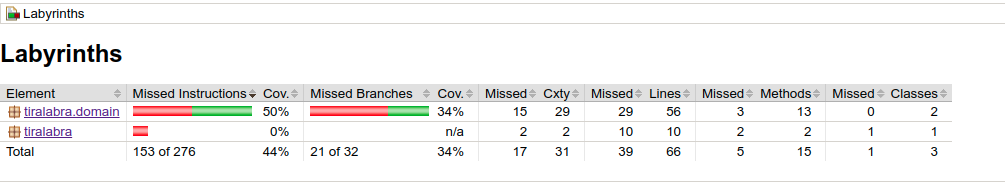
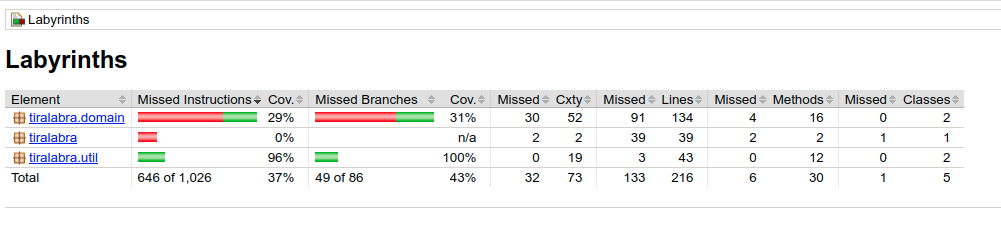
Add testaus List luokalle, dokumentaatiota, checkstyle parannuksia

diff --git a/Labyrinths/src/test/java/tiralabra/util/ListTest.java b/Labyrinths/src/test/java/tiralabra/util/ListTest.java
@@ -1,0 +1,154 @@
+/*
+ * To change this license header, choose License Headers in Project Properties.
+ * To change this template file, choose Tools | Templates
+ * and open the template in the editor.
+ */
+
+package tiralabra.util;
+
+import static org.junit.Assert.*;
+import org.junit.Test;
+
+import tiralabra.domain.Cell;
+
+/**
+ * Tests for the class List
+ * 
+ * @author lbsarast
+ */
+public class ListTest {
+   
+    private List testList = new List<>();    
+    
+    @Test
+    public void testAdd() {
+        int entryInt = -25;
+        double entrydbl = 2.2;        
+        Cell testCell = new Cell(2, 5);
+        
+        testList.add(entryInt);  
+        testList.add(entrydbl);
+        testList.add(testCell);
+        
+        Cell identical = new Cell(2, 5);
+        
+        int length = testList.getSize();
+        
+        // Bad conversion(?)
+        double dblEntry = (double)testList.getIndex(length - 2);
+        Cell cellEntry = (Cell)testList.getIndex(length - 1);
+        
+        assertEquals(testList.getIndex(length - 3), -25);
+        assertEquals(dblEntry, 2.2, 0.01);
+        assertTrue(cellEntry.compareTo(identical));
+    }
+    
+    /**
+     * Test if list delete works
+     * (Consequently tests the shiftLeft function)
+     */
+    @Test
+    public void testDelete() {
+        testList = new List<>();
+        int entryInt = -25;
+        double entrydbl = 2.2;        
+        Cell testCell = new Cell(2, 5);
+        
+        testList.add(entryInt);  
+        testList.add(entrydbl);
+        testList.add(testCell);
+        
+        assertEquals(testList.getSize(), 3);
+        
+        testList.delete(entryInt);
+        
+        assertFalse(testList.contains(entryInt));
+        assertEquals(testList.getSize(), 2);
+        
+        testList.delete(testCell);
+        assertFalse(testList.contains(testCell) && testList.contains(entrydbl));
+        assertEquals(testList.getSize(), 1);
+        
+        // Try to delete the entry again
+        // To make sure it doesn't delete something it isn't supposed to
+        testList.delete(entryInt);
+        
+        assertFalse(testList.contains(entryInt));
+        assertEquals(testList.getSize(), 1);
+    }
+    
+    /**
+     * Test the getIndex method
+     */
+    @Test
+    public void testGetIndex() {
+        testList = new List<>();
+        
+        int testval1 = 1;
+        int testval2 = -1;
+        testList.add(testval1);
+        testList.add(testval2);
+        
+        Object entry0 = testList.getIndex(0);
+        Object entry1 = testList.getIndex(1);
+        
+        assertEquals(entry0, 1);
+        assertEquals(entry1,-1);
+    }
+    
+    /**
+     * Test the indexOfEntry method
+     */
+    @Test
+    public void testIndexOfEntry() {
+        testList = new List<>();
+        
+        int testval1 = 1;
+        int testval2 = -1;
+        Cell testCell = new Cell(1, 3);
+        testList.add(testval1);
+        testList.add(testval2);
+        testList.add(testCell);
+        
+        int indexone = testList.indexOfEntry(testval1);
+        int indextwo = testList.indexOfEntry(testval2);
+        int indexthree = testList.indexOfEntry(testCell);
+        
+        assertEquals(indexone, 0);
+        assertEquals(indextwo, 1);
+        assertEquals(indexthree, 2);
+        
+        int indexfalse = testList.indexOfEntry(new Cell(1, 4));
+        assertEquals(indexfalse, -1);
+        
+        Object falseIndex = testList.getIndex(5);
+        // This seems like a bad test but passes
+        assertEquals(falseIndex, null);
+    }
+    
+    /**
+     * Test the contains function
+     */
+    @Test
+    public void testContains() {
+        testList = new List<>();
+        
+        int testval1 = 1;
+        int testval2 = -1;
+        Cell testCell = new Cell(1, 3);
+        
+        assertFalse(testList.contains(testval1) 
+                && testList.contains(testval2) 
+                && testList.contains(testCell));
+        
+        testList.add(testval1);
+        testList.add(testval2);
+        testList.add(testCell);
+        
+        assertTrue(testList.contains(testval1) 
+                && testList.contains(testval2)
+                && testList.contains(testCell));
+        
+    }
+    
+}

diff --git a/Labyrinths/src/test/java/tiralabra/domain/CellTest.java b/Labyrinths/src/test/java/tiralabra/domain/CellTest.java
@@ -6,9 +6,9 @@
 
 package tiralabra.domain;
 
+import static org.junit.Assert.*;
 import org.junit.Before;
 import org.junit.Test;
-import static org.junit.Assert.*;
 
 /**
  *
@@ -16,14 +16,11 @@ import static org.junit.Assert.*;
  */
 public class CellTest {
     
-    private Cell c;
-    
-    public CellTest() {
-    }
+    private Cell testCell;
     
     @Before
     public void setUp() {
-        c = new Cell(6, 2);
+        testCell = new Cell(6, 2);
     }
     
     /**
@@ -31,14 +28,14 @@ public class CellTest {
      */
     @Test
     public void testSetWalls() {
-        c.setWalls(0, true);
-        c.setWalls(1, true);
-        boolean[] cellwalls = c.getWalls();
+        testCell.setWalls(0, true);
+        testCell.setWalls(1, true);
+        boolean[] cellwalls = testCell.getWalls();
         assertEquals(cellwalls[0], true);
         assertEquals(cellwalls[1], true);
        
-        c.setWalls(1, false);
-        cellwalls = c.getWalls();
+        testCell.setWalls(1, false);
+        cellwalls = testCell.getWalls();
         assertEquals(cellwalls[0], true);
         assertEquals(cellwalls[1], false);
     }
@@ -51,8 +48,8 @@ public class CellTest {
         Cell identical = new Cell(6, 2);
         Cell fake = new Cell(2, 6);
         
-        boolean compareIdentical = c.compareTo(identical);
-        boolean compareFake = c.compareTo(fake);
+        boolean compareIdentical = testCell.compareTo(identical);
+        boolean compareFake = testCell.compareTo(fake);
         
         assertEquals(true, compareIdentical);
         assertEquals(false, compareFake);

diff --git a/Labyrinths/src/test/java/tiralabra/domain/LabyrinthTest.java b/Labyrinths/src/test/java/tiralabra/domain/LabyrinthTest.java
@@ -6,14 +6,10 @@
 
 package tiralabra.domain;
 
+import static org.junit.Assert.*;
 import org.junit.Before;
 import org.junit.Test;
-import static org.junit.Assert.*;
 
-import java.util.ArrayList;
-
-import tiralabra.domain.Labyrinth;
-import tiralabra.domain.Cell;
 import tiralabra.util.List;
 
 /**
@@ -24,10 +20,10 @@ import tiralabra.util.List;
 public class LabyrinthTest {
     
     private Labyrinth lab;
-    
-    public LabyrinthTest() {
-    }
-    
+
+    /**
+     * Set up a private labyrinth before tests
+     */
     @Before
     public void setUp() {
         lab = new Labyrinth(5);
@@ -90,7 +86,7 @@ public class LabyrinthTest {
         
         mazeCells.add(start);
         while (mazeCells.getSize() > 0) {
-            Cell check = mazeCells.pull();
+            Cell check = mazeCells.pop();
             if (!visited[check.getY()][check.getX()]) {
                 visited[check.getY()][check.getX()] = true;
                 checked++;
@@ -124,6 +120,6 @@ public class LabyrinthTest {
             }
         }
     
-        assertEquals(total, checked);
+        //assertEquals(total, checked);
     }
 }

diff --git a/Labyrinths/src/main/java/tiralabra/util/List.java b/Labyrinths/src/main/java/tiralabra/util/List.java
@@ -49,6 +49,12 @@ public class List<T> {
         this.size++;
     }
     
+    /**
+     * Returns the value at this index in the list
+     * 
+     * @param index 
+     * @return Value at this index in the list
+     */
     public T getIndex(int index) {        
         try {
             T value = this.values[index];
@@ -65,7 +71,7 @@ public class List<T> {
      *
      * @return First value in the list
      */
-    public T pull() {
+    public T pop() {
         T value = this.values[0];
         delete(value);
         return value;
@@ -107,6 +113,16 @@ public class List<T> {
         for (int i = index; i < this.size - 1; i++) {
             this.values[i] = this.values[i + 1];
         }
+    }
+    
+    /**
+     * Checks if the list contains this entry
+     * 
+     * @param entry Template entry
+     * @return True if contains
+     */
+    public boolean contains(T entry) {
+        return indexOfEntry(entry) != -1;
     }
     
     /**

diff --git a/Labyrinths/src/test/java/tiralabra/util/CellDirTest.java b/Labyrinths/src/test/java/tiralabra/util/CellDirTest.java
@@ -1,0 +1,37 @@
+/*
+ * To change this license header, choose License Headers in Project Properties.
+ * To change this template file, choose Tools | Templates
+ * and open the template in the editor.
+ */
+
+package tiralabra.util;
+
+import static org.junit.Assert.*;
+import org.junit.Test;
+
+import tiralabra.domain.Cell;
+
+/**
+ *
+ * @author lbsarast
+ */
+public class CellDirTest {
+    
+    /**
+     * Tests the CellDir class
+     */
+    @Test
+    public void testCellDir() {
+        Cell testCell = new Cell(2, 4);
+        CellDir testCD = new CellDir(testCell, 2);
+        
+        Cell identical = new Cell(2, 4);
+        Cell fake = new Cell(4, 2);
+        assertTrue(testCD.getCell().compareTo(identical));
+        assertFalse(testCD.getCell().compareTo(fake));
+        
+        Integer identicaldir = 2;
+        assertEquals(testCD.getDir(), identicaldir);
+    }
+    
+}

diff --git a/dokumentaatio/testikattavuus.md b/dokumentaatio/testikattavuus.md
@@ -3,10 +3,27 @@
 Testikattavuusraportin voi luoda jacocon avulla ohjelman rakentamisen yhteydessä.
 Raportti ilmestyy polulle: `LabyrinthTest/Labyrinths/build/reports/jacoco/test/html/index.html`
 
-Testikattavuus pitäisi olla kattava, sillä ainoastaan käyttöliittymästä vastaavat printLabyrinth ja printCell funktiot jäävät testaamatta tällä hetkellä.
+Testikattavus valittaa etenkin `printCell()` ja `printLabyrinth()` funktioista, jotka jätin 
+tarkoituksella testaamatta. Funktiot vastaavat käyttöliittymästä.
 
-### Koko ohjelma-alueen testikattavuus
+## Koko ohjelma-alueen testikattavuus
 ![Ohjelma-alueen testikattavuus](img/labyrinths_kattavuus.png)
 
-### Labyrinths/Domain testikattavuus
-![Domainin testikattavuus](img/domain_testikattavuus.png)  
+
+## Labyrinths.domain
+
+### Labyrinths.domain.Labyrinth
+![Labyrinth-luokan testikattavuus](img/Labyrinth_luokka_kattavuus.png)
+
+### Labyrinths.domain.Cell
+![Cell-luokan testikattavuus](imt/Cell_luokka_kattavuus.png)
+
+
+## Labyrinths.util
+
+### Labyrinths.util.Cell
+![CellDir-luokan testikattavuus](imt/CellDir_luokka_kattavuus.png)
+
+### Labyrinths.domain.List
+![List-luokan testikattavuus](imt/List_luokka_kattavuus.png)
+
